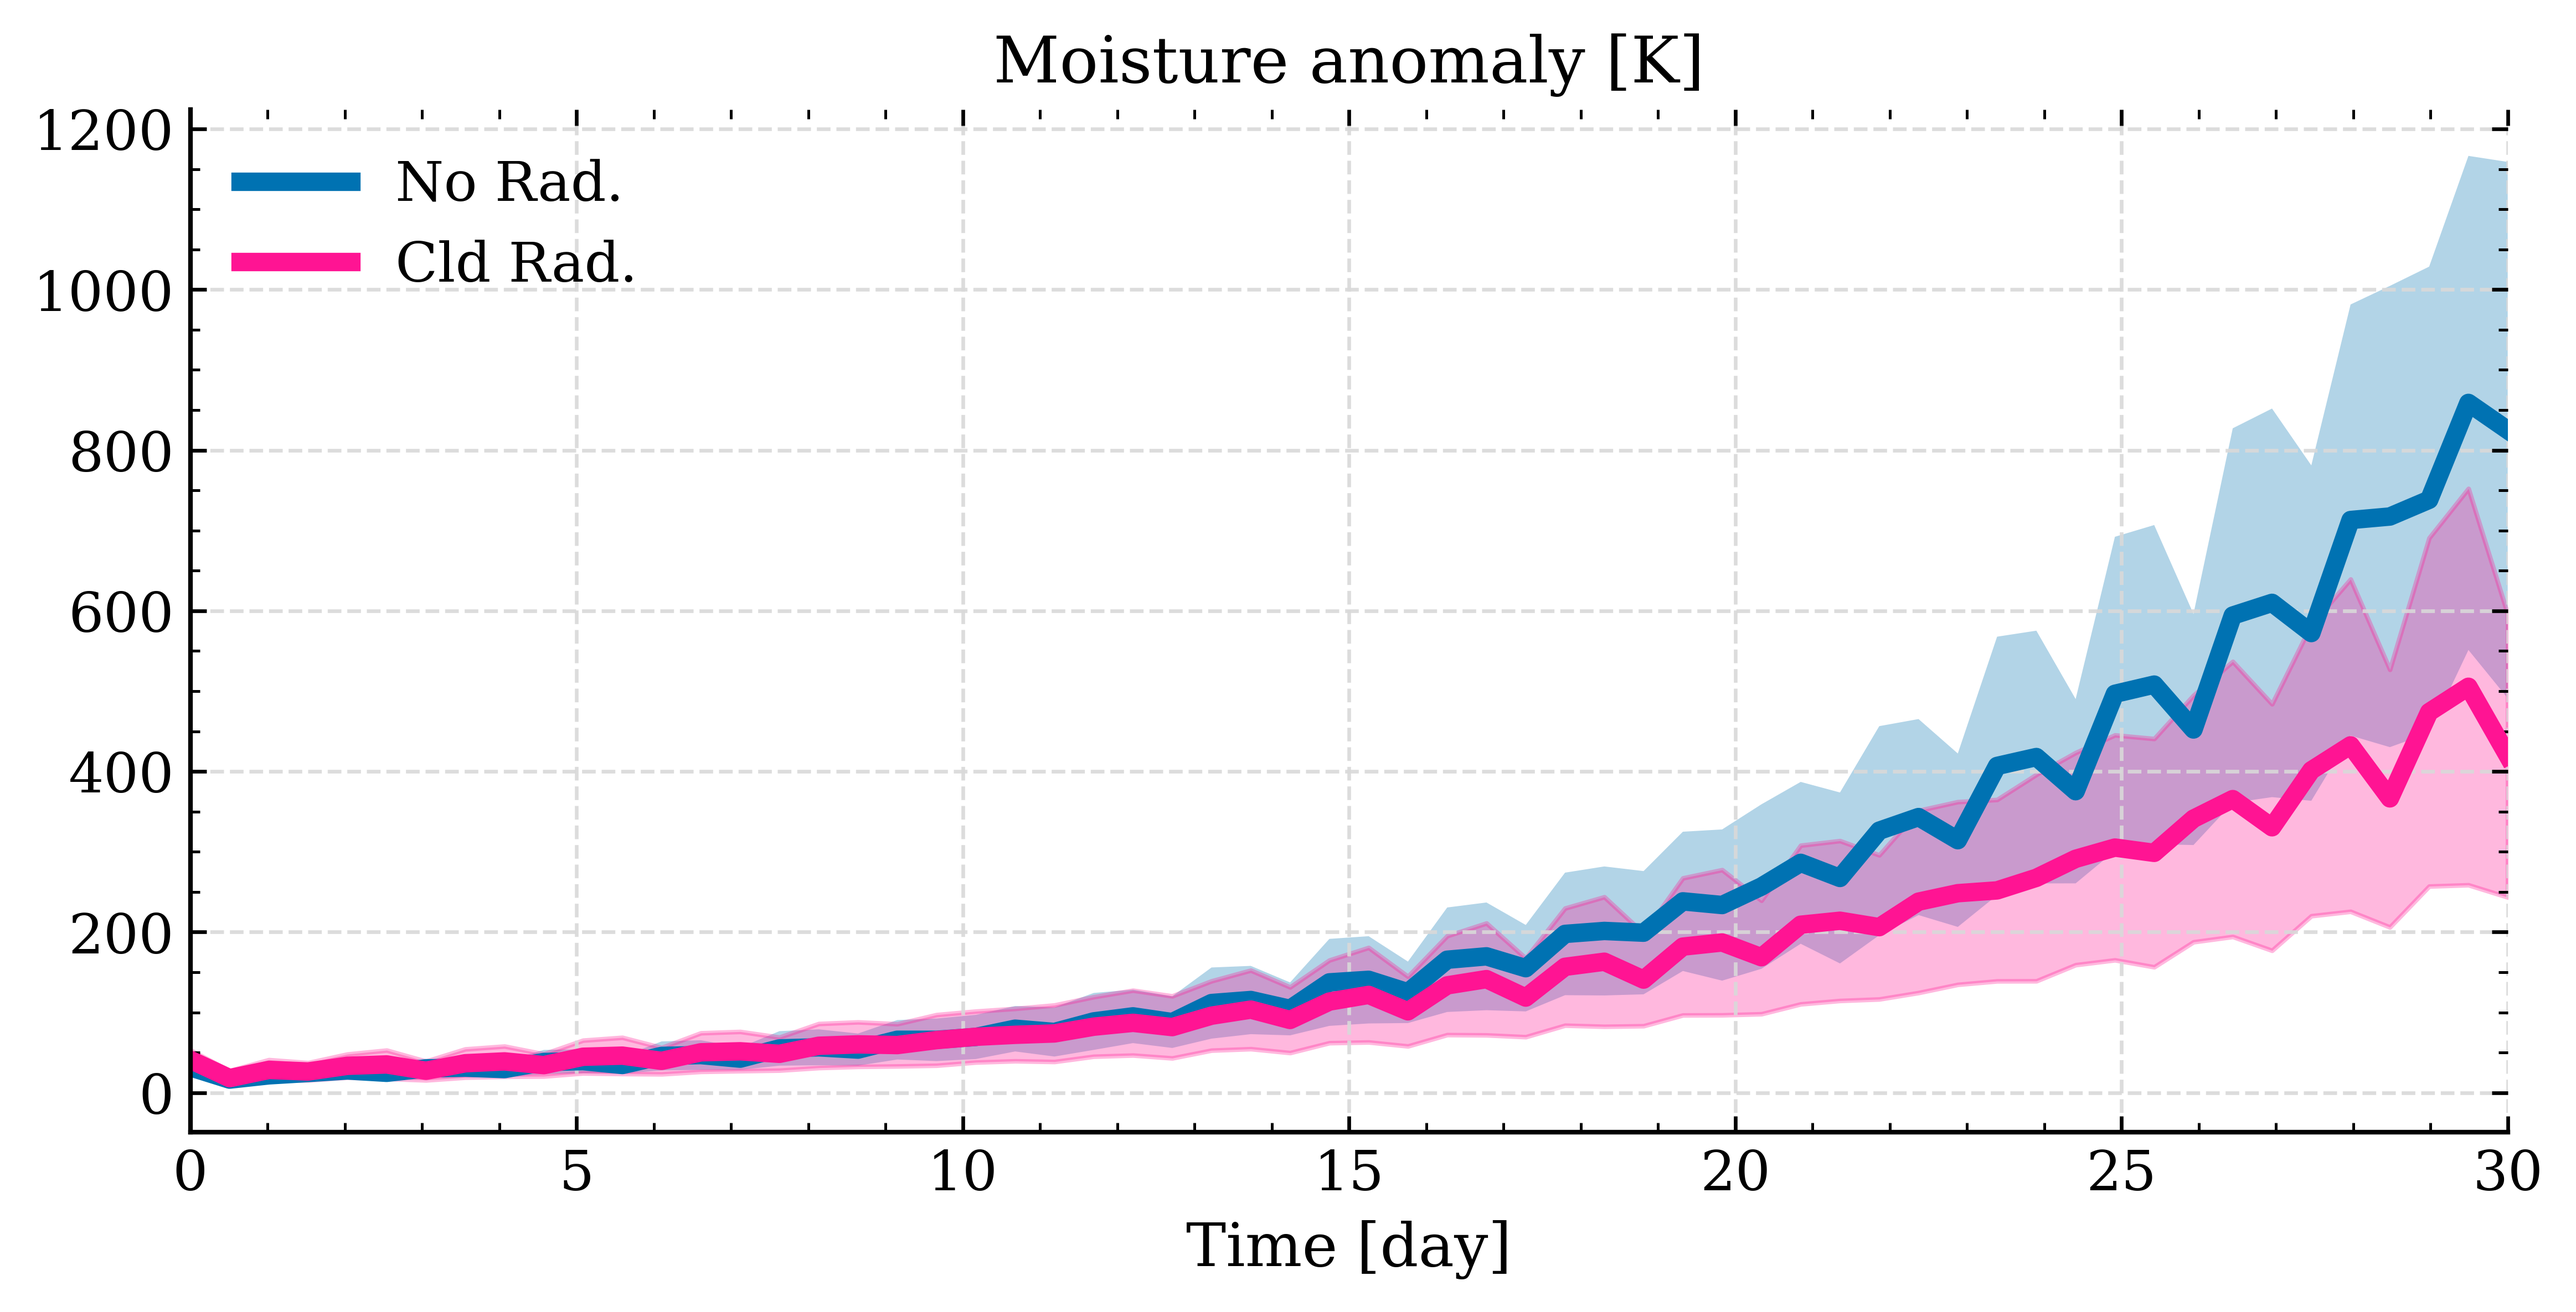
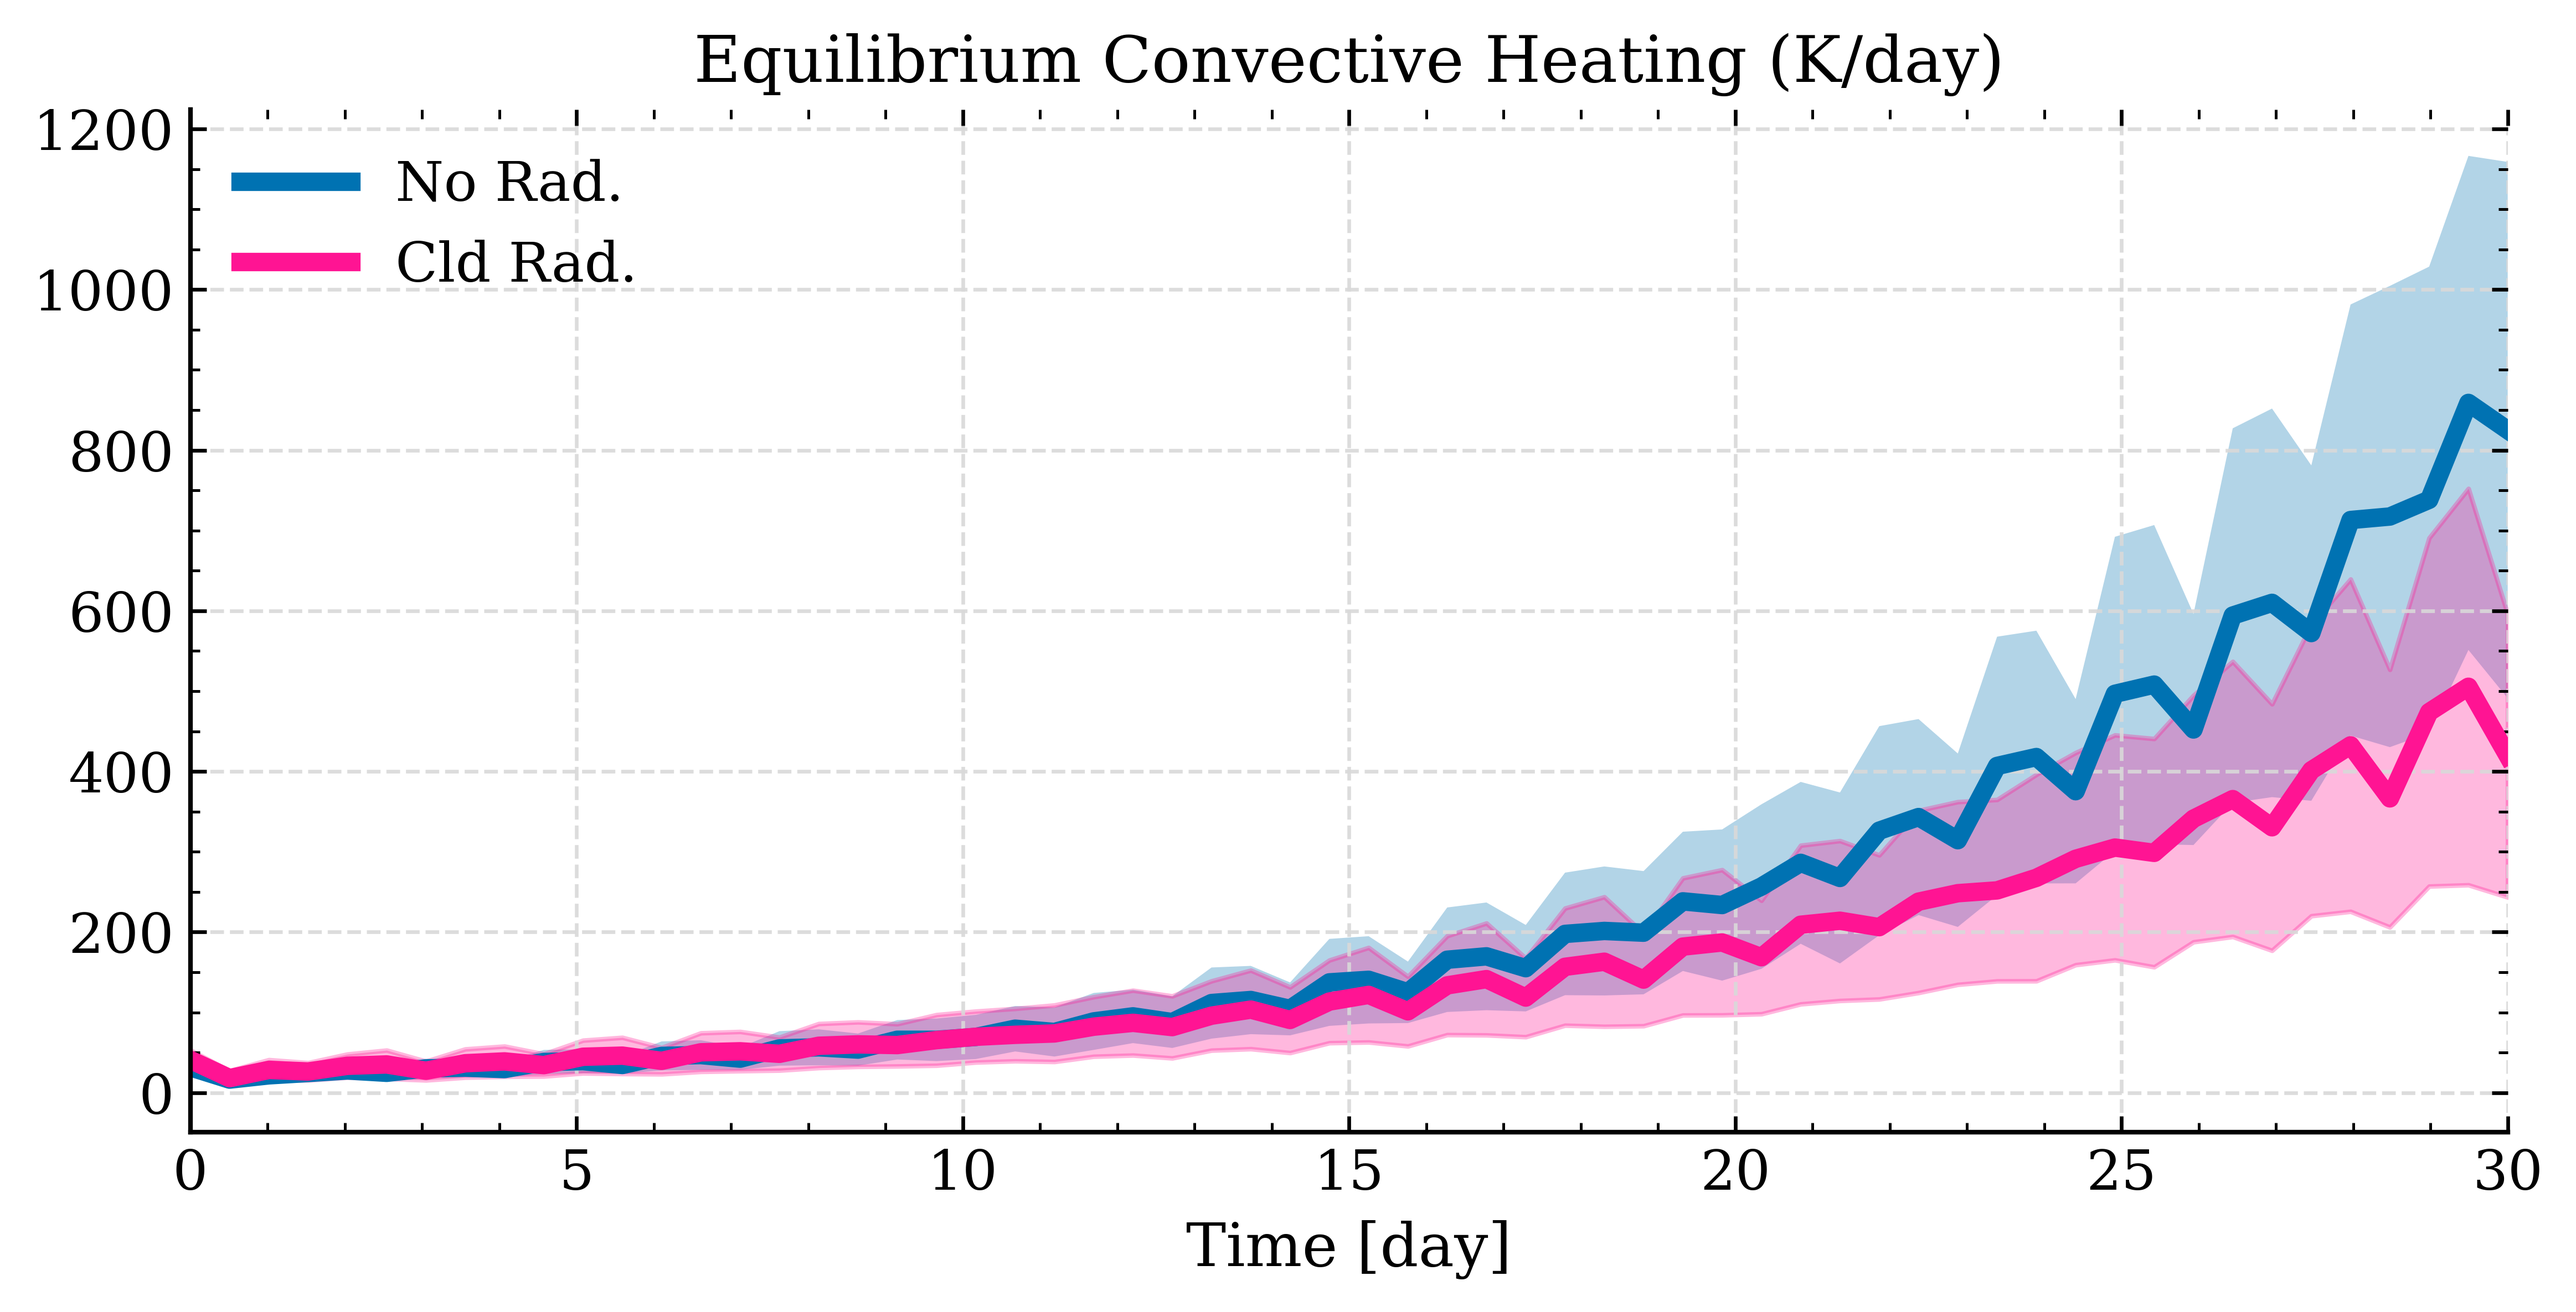
Fix: 20260420 Modify the title of figures

Changed region(s): [[0.2494, 0.0312, 0.7792, 0.0624]]

diff --git a/Comparison/NoRad_vs_CldRad/Leq_comparison.py b/Comparison/NoRad_vs_CldRad/Leq_comparison.py
@@ -116,7 +116,7 @@ ax.minorticks_on()
 ax.set_xlim(0, 30)
 # ax.set_ylim(0, 10)
 ax.set_xlabel("Time [day]")
-ax.set_title("Moisture anomaly [K]")
+ax.set_title("Convective heating (K/day)")
 ax.legend(frameon=False, loc="best")
 
 plt.savefig("/home/b11209013/Kuang2008_v0.3.0_Analysis/Figure/NoRad_vs_CldRad/L_evo.png", dpi=600, bbox_inches="tight")
@@ -134,7 +134,7 @@ ax.minorticks_on()
 ax.set_xlim(0, 30)
 # ax.set_ylim(0, 10)
 ax.set_xlabel("Time [day]")
-ax.set_title("Moisture anomaly [K]")
+ax.set_title(r"Equilibrium Convective Heating (K/day)")
 ax.legend(frameon=False, loc="best")
 
 plt.savefig("/home/b11209013/Kuang2008_v0.3.0_Analysis/Figure/NoRad_vs_CldRad/Leq_evo.png", dpi=600, bbox_inches="tight")
